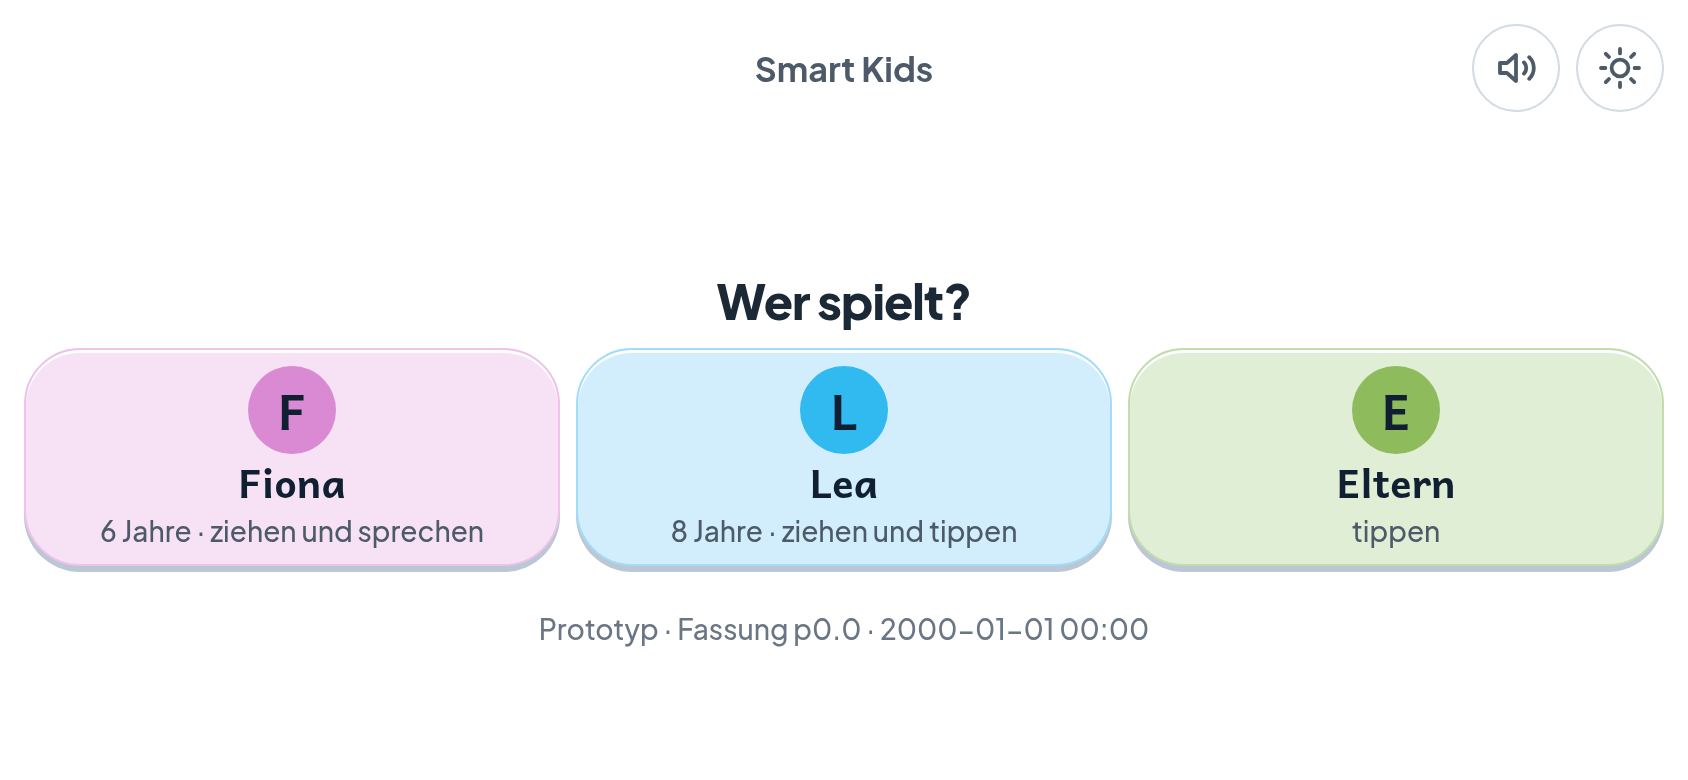
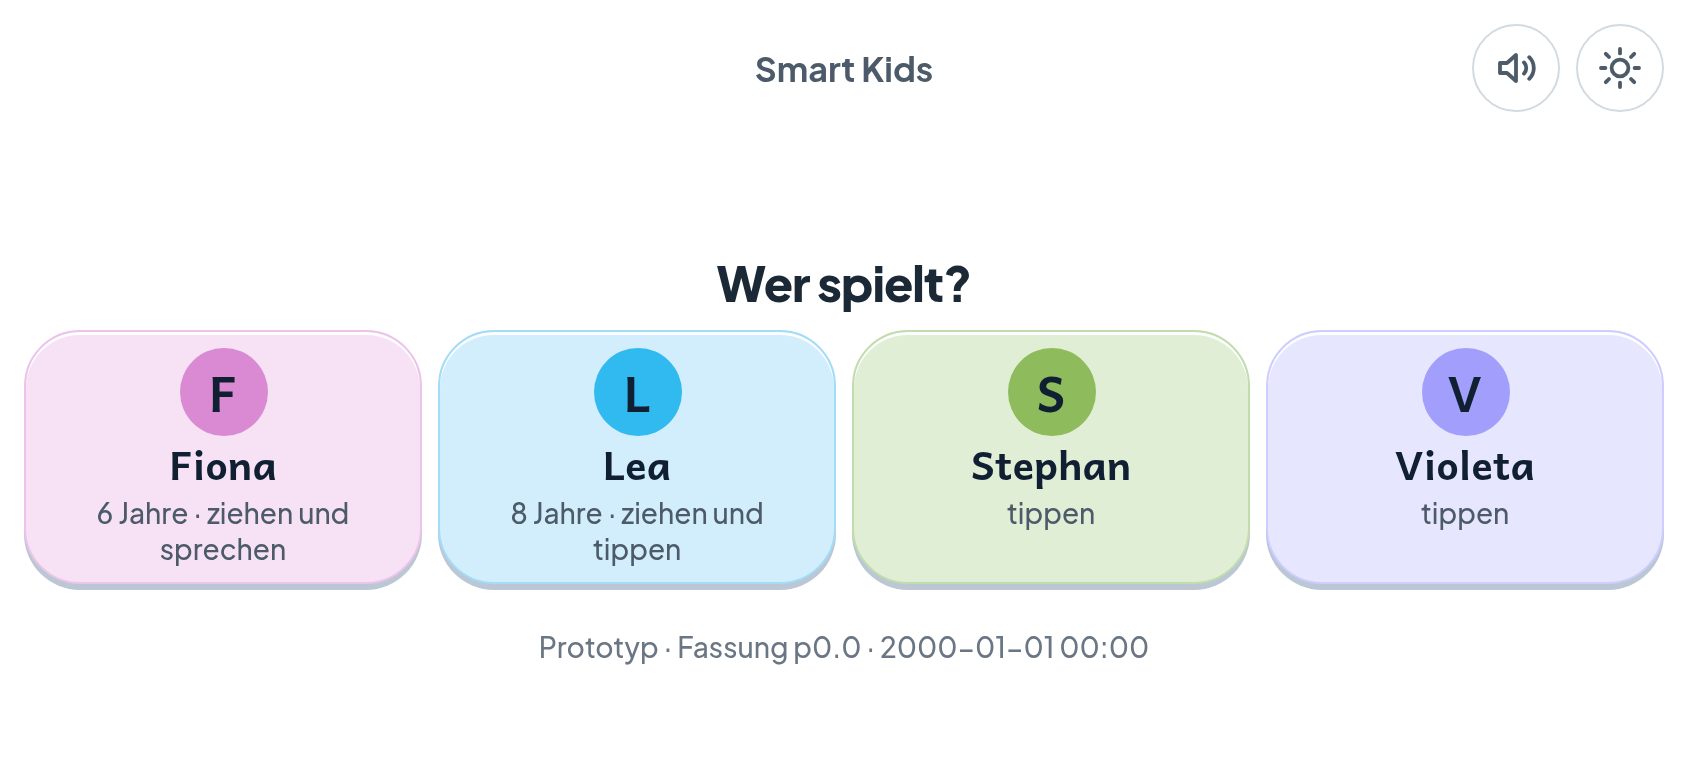
N1 dokumentiert

Changed region(s): [[0.0, 0.3385, 0.9858, 0.8615]]

diff --git a/docs/Lernkiste-STAND.md b/docs/Lernkiste-STAND.md
@@ -4917,3 +4917,60 @@ Forscherbuch vierzig Punkte auseinander — „1 0" statt „10". Eine Zahl ist
 ein Wort, keine zwei Bilder.
 
 Startbündel **202,1 von 400 KB**. `passt` sieht 21 Bildschirme je Größe.
+
+---
+
+## Runde N1: Stephan und Violeta
+
+Aus einer Kachel „Eltern" werden zwei. Gleiche Aufgaben, gleiche Tiefe,
+gleicher Ton — verschieden ist nur, wer gespielt hat. Und im Elternbereich
+ein Bildschirm, der beides nebeneinanderstellt.
+
+### Verglichen wird, was ohnehin gezählt wird
+
+**Auf Anhieb richtig** und die Zeit. Keine erfundene Punktzahl — die wäre
+`glatt` noch einmal, nur mit einem Faktor davor, und in diesem Verzeichnis
+steht keine Zahl an zwei Stellen. Eine Aufgabe ist dabei ein Eintrag, der
+sie *beendet* (`richtig` oder `gezeigt`); die Fehlversuche dazwischen
+stehen als eigene Zeilen im Protokoll und dürfen nicht mitzählen, sonst
+hätte der Ungeduldigere mehr „Aufgaben" als der Gründliche.
+
+Gleichstand ist ein Ergebnis und wird als solcher angezeigt. Ihn zu einem
+Sieger zu runden wäre die einzige Stelle, an der dieser Vergleich etwas
+behaupten könnte, was nicht gemessen ist.
+
+### Der Umbau lag woanders, als er aussah
+
+Ein zweites Profil hinzuzufügen ist eine Zeile. Die Arbeit lag in den
+Toren: **vier von ihnen lasen die Spalten der Backlog-Tabelle der Reihe
+nach** — `['fiona','lea','eltern']`, fest hingeschrieben. Eine vierte
+Spalte hätte jede Zeile um eins verschoben, und Violetas Ländertiefe,
+Sitzungslänge und Ton wären als Stephans geprüft worden. Rot geworden wäre
+nichts.
+
+Die Kennungen kommen jetzt aus der **Kopfzeile** der Tabelle: das erste
+Wort einer Spalte, klein geschrieben. Eine fünfte Spalte würde von selbst
+mitgeprüft.
+
+### Und die Lücke, die dabei sichtbar wurde
+
+Fällt eine Spalte *weg*, prüft jedes Tor stillschweigend ein Profil
+weniger — und **keines wird rot**, weil ihnen allen dasselbe Soll fehlt.
+Das ist die gefährlichste Sorte Lücke: sie macht die Kette leiser, nicht
+roter.
+
+Der Rauchtest vergleicht deshalb die Zahl der Profile, die die App kennt,
+mit der Zahl der Spalten in der Tabelle. Die zugehörige Gegenprobe nimmt
+der Tabelle eine Spalte — und schlägt an.
+
+### Der alte Stand geht nicht verloren
+
+Er lag unter `eltern:<ebene>` und wäre nach der Umbenennung unerreichbar
+gewesen: vorhanden, aber von nichts mehr gelesen — die unangenehmste Sorte
+Datenverlust, weil nichts weg ist und trotzdem nichts wiederkommt. Er zieht
+beim ersten Start zu **Stephan** um. Das Protokoll wird dagegen beim
+**Lesen** umgeschrieben, nicht in der Ablage: ein Mitschnitt wird nicht
+rückwirkend geändert.
+
+Startbündel **204,6 von 400 KB**. Vier Profilkacheln passen auf 844 × 390
+in eine Reihe; `passt` ist auf allen sieben Größen grün.
